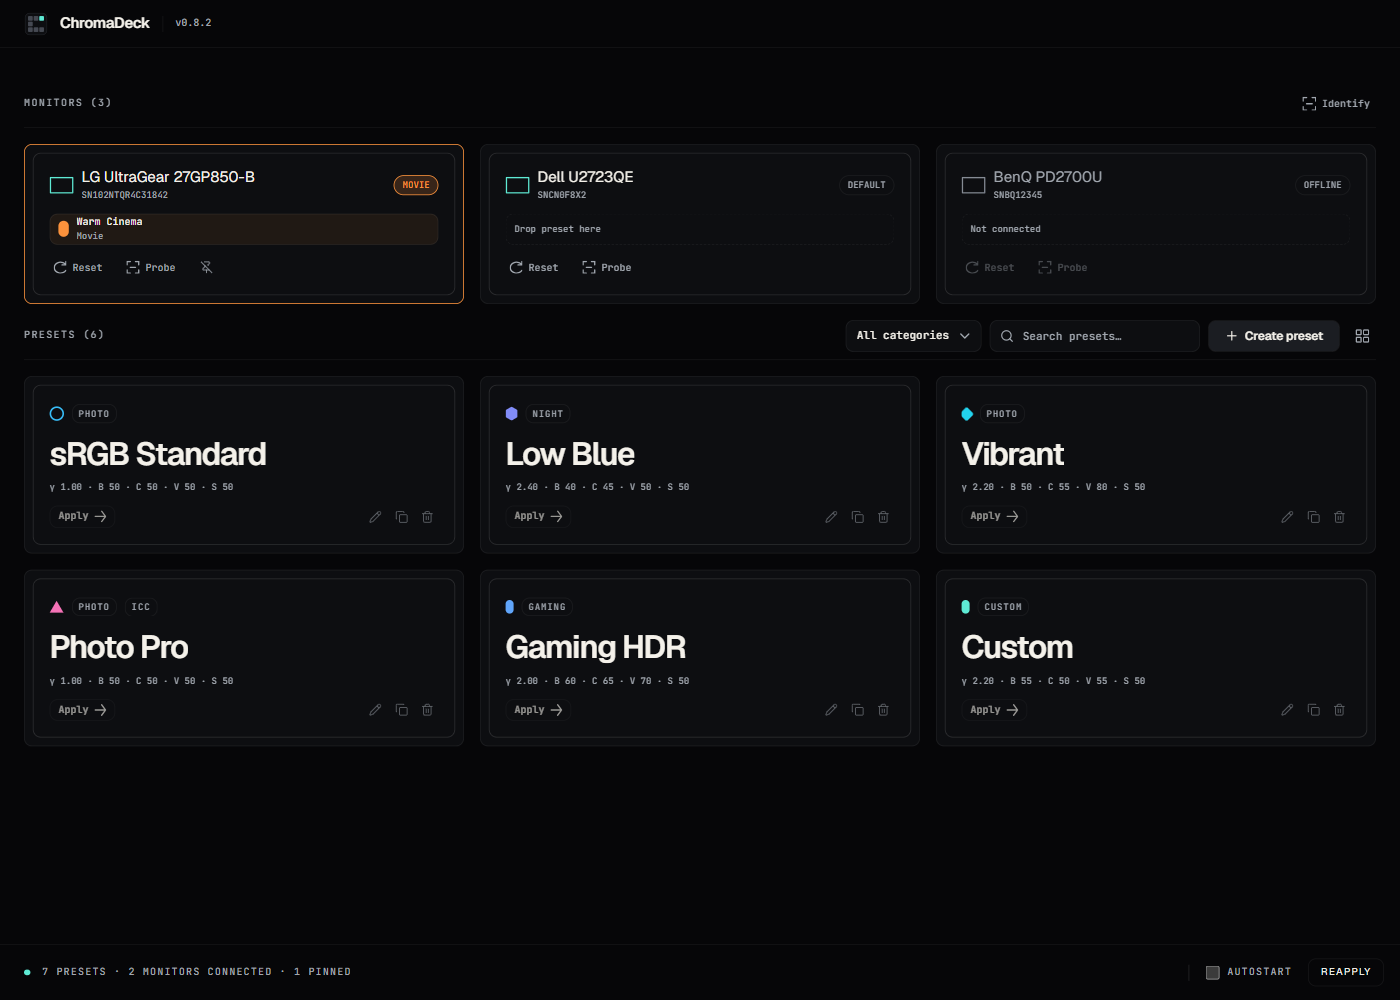
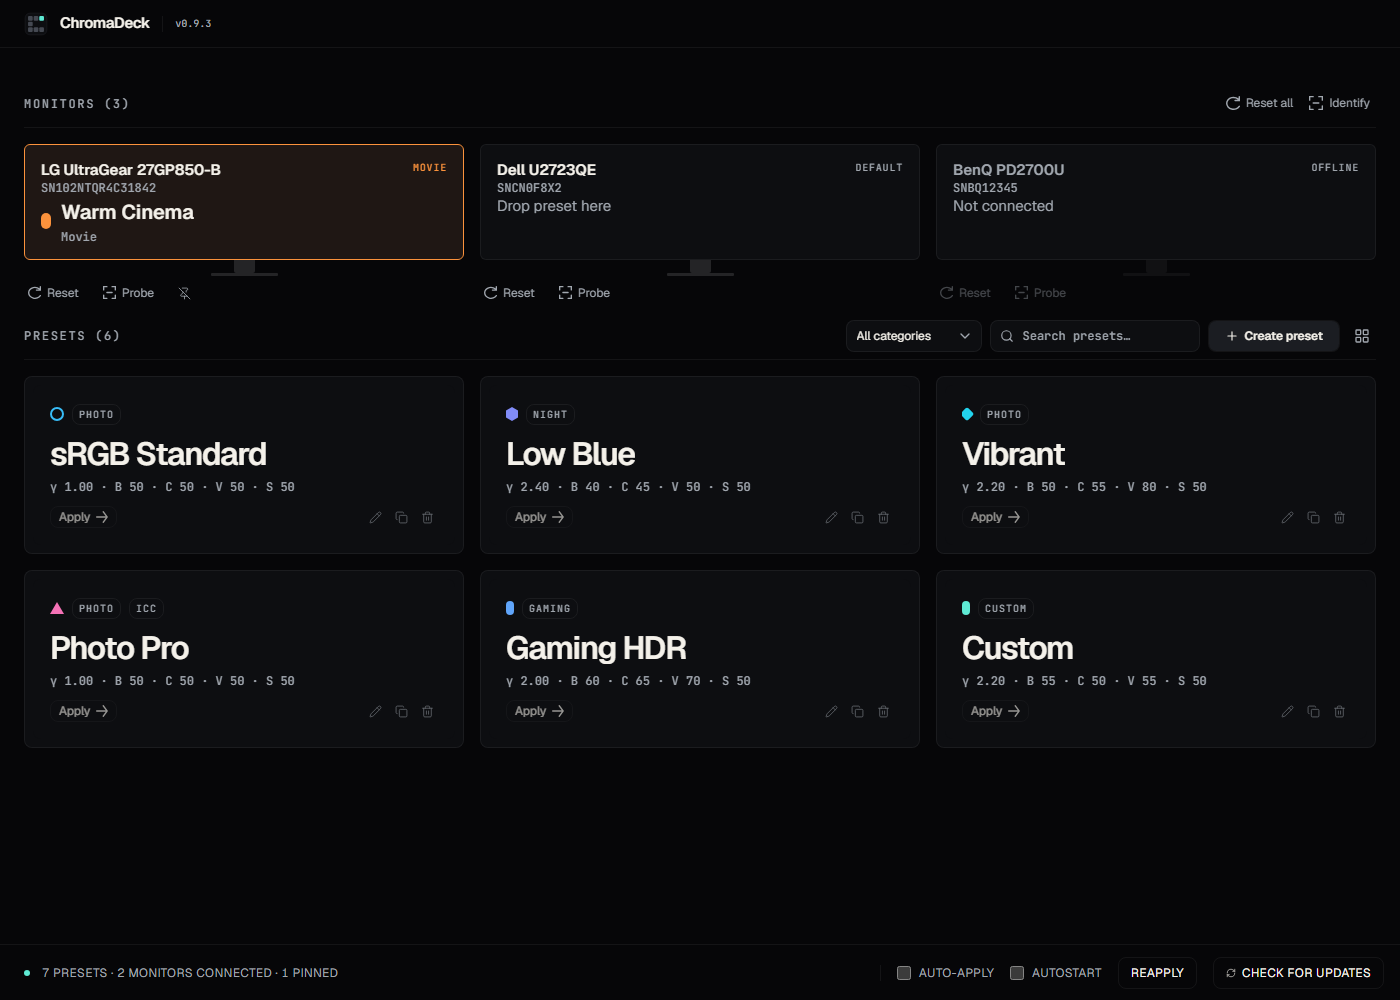
docs: refresh README for v0.9.3
New library and editor screenshots; dark theme, monitor silhouettes and
drag-to-apply; per-program auto-apply; updater flow and the one-time
manual upgrade from v0.9.2. Drop stale claims (NVCP import and
multi-select delete are no longer in the UI; no standalone exe in
releases; monitors are a top row, not a sidebar).

diff --git a/README.md b/README.md
@@ -15,11 +15,11 @@ Per-monitor display color profile manager for Windows. Save color presets — br
 - **Digital vibrance & hue** — driven through the NVIDIA driver (same control as NVCP), with per-display support detection. Saturation (0–100, neutral 50) is the vendor-neutral colour-intensity control and is available on Intel displays.
 - **ICC profiles** — bundle `.icc`/`.icm` files into presets and associate them per monitor.
 - **Pin & enforce** — pin a preset per monitor; on NVIDIA displays a background loop restores it if anything (games, HDR toggles, driver updates) stomps it. Intel pins are recorded and shown but are not auto-reapplied (see Display support). Tray-resident with autostart and single-instance.
+- **Auto-apply per program** — map programs (e.g. `chrome.exe`) to a preset in the editor. With **Auto-apply** switched on in the footer, the preset is applied to whichever monitor shows that program while it is in front, and reverted when it leaves. Pinned monitors are left alone, so a pin always wins. Applying or resetting a monitor by hand takes it back from auto-apply.
 - **Reset, duplicate, delete** — full-default reset (gamma + vibrance + hue), one-click duplicate, delete with confirmation.
-- **Import NVCP state** — capture the driver's live color state straight into a new preset.
-- **Preset deck UI** — light neobrutalist theme: paper background, black borders, hard offset shadows, mint accent fills, tap-to-apply deck, in-use highlighting on preset cards, monitor sidebar, support for offline monitors.
-- **Preset editor** — fine-tune gamma, contrast, brightness, RGB gains, vibrance, saturation, hue, tag colour, and tag shape with live before/after swatch preview. Reset, duplicate, and delete presets from any card.
-- **Auto-updater** — checks a hosted update manifest on startup and on demand, downloads a new release, verifies its Ed25519 signature, and prompts you to install — all inside the app. No more downloading a new installer for every release.
+- **Preset deck UI** — flat dark theme with a single mint accent and Geist type (see `DESIGN.md`). Monitors are drawn as monitor silhouettes that show empty, drag-over, applying, applied, pinned, offline and error states at a glance; drag a preset onto a monitor to apply it. Preset cards are single-bordered and tap-to-apply, with in-use highlighting, search, a category filter, and support for offline monitors.
+- **Preset editor** — fine-tune gamma, contrast, brightness, RGB gains, vibrance, saturation, hue, tag colour, tag shape and program mappings with live before/after swatch preview. Reset, duplicate, and delete presets from any card.
+- **Auto-updater** — checks a hosted update manifest on startup and on demand, downloads a new release, verifies its signature, and installs it — all inside the app. No more downloading a new installer for every release.
 - **Tray-native window** — closing hides to the tray; every re-open (tray Show, tray click, second launch) replays the staged load animation; the window spawns centered on launch.
 
 ## Installation (Windows 10/11 x64)
@@ -31,13 +31,15 @@ Download from the [releases page](https://github.com/miiidev/ChromaDeck/releases
 | `ChromaDeck_*_x64_en-US.msi` | Standard Windows installer (recommended) |
 | `ChromaDeck_*_x64-setup.exe` | NSIS setup wizard |
 | `ChromaDeck_*_x64-portable.zip` | Portable ZIP (exe + license + marker, unzip and run — settings stay in a `data` folder next to the exe, nothing in AppData) |
-| `chromadeck.exe` | Standalone binary, no install needed |
+| `*.sig` | Updater signatures for the installers |
 
 ## Auto-updater
 
-ChromaDeck checks for updates automatically on startup and on demand via a "Check for updates" button in the footer. When a newer version is available, a dialog shows the release notes and a "Download & install" button. The MSI is downloaded and its Ed25519 signature is verified before installation — unsigned or tampered updates are never executed.
+ChromaDeck checks for updates automatically on startup and on demand via a "Check for updates" button in the footer. When a newer version is available, a dialog shows the release notes and a "Download & install" button. The MSI is downloaded and its Ed25519 (minisign) signature is verified before installation — unsigned or tampered updates are never executed.
 
-After a successful install, the app restarts on the new version. Clicking "Remind me later" on the dialog suppresses update notifications for 24 hours; clicking "Check for updates" again always overrides the suppression.
+While the update downloads and installs, the dialog shows progress and then an installing state; the app closes when the installer starts. If the check, download or install fails, the dialog says so and offers **Check again**. Clicking "Remind me later" suppresses update notifications for 24 hours; clicking "Check for updates" again always overrides the suppression.
+
+> **Upgrading from v0.9.2:** v0.9.2 shipped with a malformed updater key and cannot install updates by itself. Download and install [v0.9.3](https://github.com/miiidev/ChromaDeck/releases/tag/v0.9.3) once by hand; updates work from inside the app after that.
 
 Requirements: Windows 10/11 x64 and the WebView2 runtime (preinstalled on Windows 10 1809+ and Windows 11). NVIDIA displays unlock the NVCP-native engine plus digital vibrance/hue; Intel-driven displays use the Intel IGCL pipeline (saturation, hue, gamma family); any other display falls back to OS-level color controls where supported.
 
@@ -61,17 +63,19 @@ Known limitations, stated plainly:
 - **Exclusive-fullscreen games** — best effort. Driver-level (NVAPI) settings commonly hold through fullscreen; the GDI fallback can be bypassed by exclusive fullscreen. The enforcement loop re-applies on drift where it can detect it.
 - **Intel restore** — Intel reset restores the panel to the state captured before ChromaDeck's own apply in this session, verified by read-back. With no such capture, reset reports an honest failure instead of a false success; a reboot returns the panel to the driver's own default.
 - **Intel pins are not auto-enforced** — the background drift loop and startup re-apply deliberately skip Intel displays (their colour lives in a runtime-only driver LUT that Reset depends on capturing). A pin still records intent and enables **Apply…**; use **Reapply** after an external change.
-- **Apply verification** — apply reports which adjustments were written, skipped, or failed, and marks writes as accepted-by-driver but not read-back-verified. The sidebar **Probe** is the read-back check.
+- **Apply verification** — apply reports which adjustments were written, skipped, or failed, and marks writes as accepted-by-driver but not read-back-verified. The **Probe** button on each monitor card is the read-back check.
 - **AMD** — not yet implemented. AMD displays fall back to the basic GDI engine; the backend interface has a slot for a future AMD implementation.
 
 ## Usage
 
-1. Launch ChromaDeck — the sidebar lists your monitors (connected, plus last-known offline ones); the library deck below holds your presets. Fresh installs start empty: click **+ Create** (or **Create preset** in the empty state) to build your first preset — name it, tweak sliders, optionally attach an ICC profile, capture the live NVCP state, or set a color tag.
-2. Click a preset pad (or **Apply…** on a monitor's pinned preset) to open the Apply dialog: pick the target monitor (your last target per preset is remembered), optionally toggle **Pin**, then **Apply**.
+1. Launch ChromaDeck — the top row shows your monitors (connected, plus last-known offline ones); the preset library sits below. Fresh installs start empty: click **Create preset** to build your first preset — name it, tweak sliders, optionally attach an ICC profile, map programs, or set a colour tag.
+2. Click a preset card (or **Apply…** on a monitor's pinned preset) to open the Apply dialog: pick the target monitor (your last target per preset is remembered), optionally toggle **Pin**, then **Apply**. You can also drag a preset card straight onto a monitor.
 3. A pinned preset stays enforced on NVIDIA displays — the background loop restores it if games, HDR toggles, or driver updates stomp it. Intel pins are not auto-reapplied; use **Reapply** after an external change (see Display support). Cards show **IN USE** while pinned or applied on a connected monitor.
-4. Manage each monitor from the sidebar: **✎** renames it, **Reset** returns it to defaults (and unpins it once the restore succeeds), **Unpin** releases a pin. **Identify** flashes every monitor's number on screen. **Probe** reads back live hardware state (engine, vibrance, ramp peak) without changing anything — the answer to "did it land?".
-5. Manage the library from the deck toolbar: pencil edits, copy duplicates, trash deletes (with confirmation); **Select** enables multi-delete. The footer shows preset/monitor/pin counts plus **Reapply** and the **Start with Windows** toggle.
-6. Closing the window hides it to the tray — right-click the tray icon for Show / Reapply now / Quit, or left-click to reopen.
+4. Manage each monitor from its card: **✎** renames it, **Reset** returns it to defaults (and unpins it once the restore succeeds), the unpin icon releases a pin. **Probe** reads back live hardware state (engine, vibrance, ramp peak) without changing anything — the answer to "did it land?". Above the cards, **Identify** flashes every monitor's number on screen and **Reset all** restores every connected monitor and clears all pins (after a confirmation).
+5. Manage the library from the cards and toolbar: pencil edits, copy duplicates, trash deletes (with confirmation). Search and the category filter narrow the deck, and the toolbar toggles between grid and carousel views.
+6. To switch presets per program, add programs under **Programs** in the editor (type a name like `chrome.exe` or **Browse…** for the exe), then turn on **Auto-apply** in the footer.
+7. The footer shows preset/monitor/pin counts plus the **Auto-apply** and **Autostart** toggles, **Reapply** and **Check for updates**.
+8. Closing the window hides it to the tray — right-click the tray icon for Show / Reapply now / Quit, or left-click to reopen.
 
 All values show their neutral points in the editor (e.g. brightness/contrast 50, gamma 1.0): a fresh preset changes nothing until you move a slider.
 
@@ -82,13 +86,13 @@ All values show their neutral points in the editor (e.g. brightness/contrast 50,
 - NVIDIA Control Panel → Adjust desktop color settings → select the display → Restore defaults (or Intel Graphics Command Center / AMD Software → restore defaults).
 - Windows Settings → System → Display (per display): Night Light off, HDR off.
 - In-game video settings and OEM display apps (PremierColor, LegionZone, …) override everything silently.
-- The sidebar **Probe** button reads live hardware state without changing anything — if it disagrees with Reset's report, that's the lead.
+- The **Probe** button on a monitor card reads live hardware state without changing anything — if it disagrees with Reset's report, that's the lead.
 - Note: Reset never removes ICC profile associations (by design); remove those in Windows Color Management if a preset installed one.
 
 ## How it works
 
-- **Frontend:** React + Vite + Tailwind CSS v4, light neobrutalist theme (paper, black borders, hard shadows, mint accent fills; see `DESIGN.md`).
-- **Backend:** Rust via Tauri v2. `monitor.rs` enumerates displays as an adapter→monitor tree with EDID identity; `store.rs` persists presets/pins/aliases as JSON; `backend/` holds the vendor-neutral `ColorBackend` interface with its NVIDIA (`nvapi`), Intel (`intel`, dynamic-loaded IGCL), and universal GDI implementations, selected per display; `capabilities.rs` reports per-adjustment availability to the editor; `color.rs` orchestrates ICC + backend apply; `nvgamma.rs` + `nvapi.rs` implement the NVCP transfer math (reimplemented from observed driver behavior), 1024-entry float ramps, and driver-registry persistence; `enforce.rs` runs startup re-apply, the 10-second drift-check loop, and exit classification; `identify.rs` spawns numbered overlay windows for monitor identification.
+- **Frontend:** React + Vite + Tailwind CSS v4, flat dark theme with a mint accent (tokens in `src/App.css`; see `DESIGN.md`).
+- **Backend:** Rust via Tauri v2. `monitor.rs` enumerates displays as an adapter→monitor tree with EDID identity; `store.rs` persists presets/pins/aliases as JSON; `backend/` holds the vendor-neutral `ColorBackend` interface with its NVIDIA (`nvapi`), Intel (`intel`, dynamic-loaded IGCL), and universal GDI implementations, selected per display; `capabilities.rs` reports per-adjustment availability to the editor; `color.rs` orchestrates ICC + backend apply; `nvgamma.rs` + `nvapi.rs` implement the NVCP transfer math (reimplemented from observed driver behavior), 1024-entry float ramps, and driver-registry persistence; `enforce.rs` runs startup re-apply, the 10-second drift-check loop, and exit classification; `auto_apply.rs` (pure rules) + `auto_apply_runtime.rs` + `foreground.rs` drive per-program auto-apply, with display writes serialized so a manual change is never undone by a stale background pass; `identify.rs` spawns numbered overlay windows for monitor identification; `updater.rs` wraps the Tauri updater plugin.
 - **Data lives in** `%LOCALAPPDATA%\ChromaDeck\` (`presets.json`, `pins.json`, `applied.json`, `monitor_names.json`, `profiles\`, plus timestamped `.bak-*` backups before migrations). The portable ZIP keeps data in a `data` folder next to the exe instead (via its marker file); setting `CHROMADECK_DATA_DIR` overrides the location entirely.
 
 ## Development
@@ -108,14 +112,20 @@ npm test                                        # frontend tests (vitest)
 cargo test --manifest-path src-tauri/Cargo.toml # backend tests
 npm run tauri build                             # release bundles -> src-tauri/target/release/bundle/
 npm run bundle:portable                         # portable ZIP (after tauri build)
+npx playwright test                             # browser e2e tests (starts the dev server)
 ```
 (All commands run from the repo root.)
+
+Running `npm run dev` without Tauri serves the UI in a browser with built-in demo data, which is handy for visual work.
+
+Releases are signed for the auto-updater with a private key kept outside the repo; the full release procedure is in [`docs/superpowers/specs/2026-11-10-auto-updater-design.md`](docs/superpowers/specs/2026-11-10-auto-updater-design.md#whats-left-to-the-builder).
 
 Project layout:
 
 ```
 src/                    # React frontend (App, components, lib)
-src-tauri/src/          # Rust backend (backend/, capabilities, monitor, store, color, nvapi, nvgamma, enforce)
+src-tauri/src/          # Rust backend (backend/, capabilities, monitor, store, color, nvapi, nvgamma, enforce, auto_apply, updater)
+tests/                  # Playwright e2e tests
 docs/superpowers/       # design specs + implementation plans
 docs/screenshots/       # README images
 ```

diff --git a/CLAUDE.md b/CLAUDE.md
@@ -50,7 +50,7 @@ Before declaring work complete, `npm run build`, `npm test`, and `cargo test` sh
 ## Design system and UI conventions
 
 - **Figma is authoritative for appearance** (file key `vfF5g0hTALNbScBM4Nz1Y1`); the existing app is authoritative for behavior. A reskin must not change flows, state, or Tauri integrations — functional changes need explicit user authorization. See `AGENTS.md` for the full rules (inspect before editing, use real Figma values via MCP, report unknown values instead of guessing, visual verification against Figma before claiming visual completion).
-- `DESIGN.md` is the current design spec (Flat Dark Minimal, mint `#5eead4` accent, Geist font). The README's "light neobrutalist" description is outdated.
+- `DESIGN.md` is the current design spec (Flat Dark Minimal, mint `#5eead4` accent, Geist font).
 - Design tokens are CSS custom properties in the `@theme` block of `src/App.css` (Tailwind v4, no tailwind.config). Use tokens, not magic values.
 - UI primitives in `src/components/ui/` follow shadcn `base-nova` conventions: `data-slot` attributes, `cva` variants, Base UI React primitives (Radix only for Slider). Icons: lucide-react.
 - Preset tag color is exposed as a `--tag` CSS variable and reused for state styling (`var(--tag, var(--color-primary))`).
